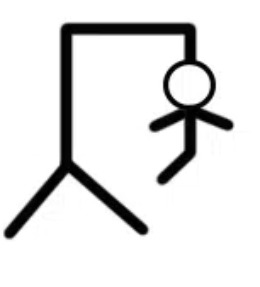
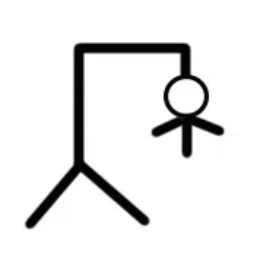
condccion derrota ajustada

Changed region(s): [[0.0, 0.0576, 0.9231, 0.8345]]

diff --git a/src/App.tsx b/src/App.tsx
@@ -7,14 +7,16 @@ import fallo from "./assets/sonidos/incorrectaPalabra.mp3";
 import victoriia from "./assets/sonidos/victoria.mp3";
 import { ReinicioIcono } from "./componentes/iconos/Iconos";
 import ahorca from "./assets/sonidos/ahorcado.mp3";
-import horca00 from "./assets/imagenes/horca00.png";
-import horca0 from "./assets/imagenes/horca0.jpeg";
+
+import horca0 from "./assets/imagenes/horca0.png";
 import horca1 from "./assets/imagenes/horca1.jpeg";
 import horca2 from "./assets/imagenes/horca2.jpeg";
 import horca3 from "./assets/imagenes/horca3.jpeg";
 import horca4 from "./assets/imagenes/horca4.jpeg";
 import horca5 from "./assets/imagenes/horca5.jpeg";
 import horca6 from "./assets/imagenes/horca6.jpeg";
+import horca7 from "./assets/imagenes/horca7.jpeg";
+
 import ganar from "./assets/imagenes/ganar.png";
 function App() {
   const sonidoAcierto = new Audio(acierto);
@@ -22,7 +24,6 @@ function App() {
   const victoria = new Audio(victoriia);
   const ahorcado = new Audio(ahorca);
   const imagenHorca: string[] = [
-    horca00,
     horca0,
     horca1,
     horca2,
@@ -30,6 +31,7 @@ function App() {
     horca4,
     horca5,
     horca6,
+    horca7,
   ];
 
   const [contadoravancehorca, setContadorAvanceHorca] = useState(0);
@@ -41,7 +43,7 @@ function App() {
     const indice = Math.floor(Math.random() * palabras.length);
     return palabras[indice].split("");
   });
-  const [intentos, setIntentos] = useState(7);
+  //const [intentos, setIntentos] = useState(7);
 
   const [estado, setEstado] = useState(false);
   const [palabraoculta, setPalabraOculta] = useState(palabra);
@@ -54,14 +56,15 @@ function App() {
     if (!palabra.includes(letraIngresada)) {
       if (!desaciertos.includes(letraIngresada)) {
         sonidoFallo.play();
-        setContadorAvanceHorca(
-          (contadoravancehorca) => contadoravancehorca + 1
+        setContadorAvanceHorca((prev) =>
+          Math.min(prev + 1, imagenHorca.length - 1)
         );
+        console.log(contadoravancehorca);
+        //setIntentos((intentos) => intentos - 1);
         setDesAciertos([...desaciertos, letraIngresada]);
-        setIntentos((intentos) => intentos - 1);
       }
 
-      if (intentos <= 1) {
+      if (contadoravancehorca === 6) {
         setTimeout(() => {
           ahorcado.play();
         }, 1000);
@@ -92,7 +95,7 @@ function App() {
 
     setContadorAvanceHorca(0);
     setAciertos([]);
-    setIntentos(7);
+    //setIntentos(7);
     setDesAciertos([]);
     setDeshabilitado(false);
 
@@ -128,7 +131,7 @@ function App() {
           e.target.value = ""; // ← limpia el input
         }}
       />
-      <span>Intentos restantes : {intentos}</span>
+      <span>Intentos restantes : {contadoravancehorca}</span>
       <span style={{ backgroundColor: "" }}>
         {" "}
         Letras equivocadas : {desaciertos}
